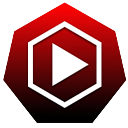
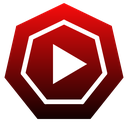
Version 1.6 : l'hexagone interieur de l'icone devient un heptagone
Regenere ico16/32/48/128.png : la forme interieure passe d'un hexagone a un
heptagone, dans la meme orientation pointe-en-haut que l'heptagone exterieur.

Changed region(s): [[0.0, 0.0, 1.0, 0.9688]]

diff --git a/popup.js b/popup.js
@@ -706,7 +706,7 @@ function formatInterval(totalSeconds) {
   return `${m} min ${s}s`;
 }
 
-const APP_VERSION = '1.5';
+const APP_VERSION = '1.6';
 
 // Dépôt public : sert au contrôle de version et au téléchargement.
 const REPO_OWNER = 'Slipers';
@@ -717,6 +717,14 @@ const RELEASES_URL = `https://github.com/${REPO_OWNER}/${REPO_NAME}/releases/lat
 
 // Le libellé « Nouveau » n'est rendu que sur l'entrée la plus récente.
 const CHANGELOG = [
+  {
+    version: '1.6',
+    date: '12 août 2026',
+    tag: 'Nouveau',
+    items: [
+      "Nouvelle icône : l'hexagone intérieur devient un heptagone, aligné sur la forme extérieure",
+    ],
+  },
   {
     version: '1.5',
     date: '12 août 2026',
